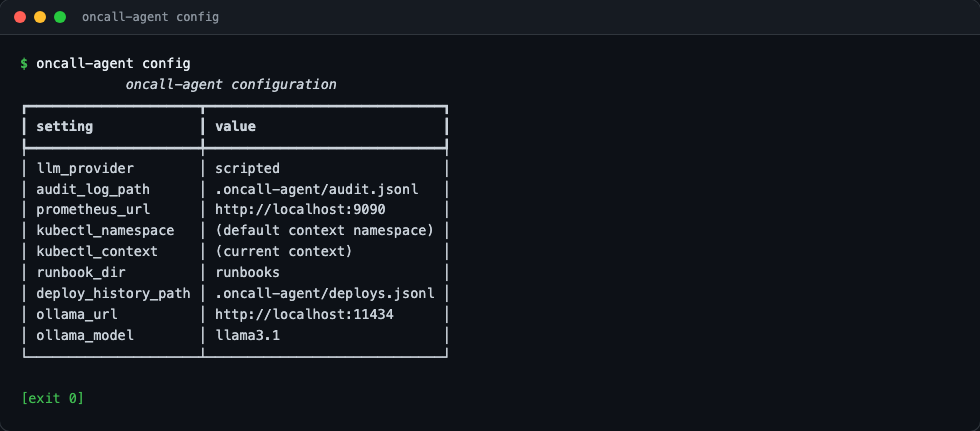
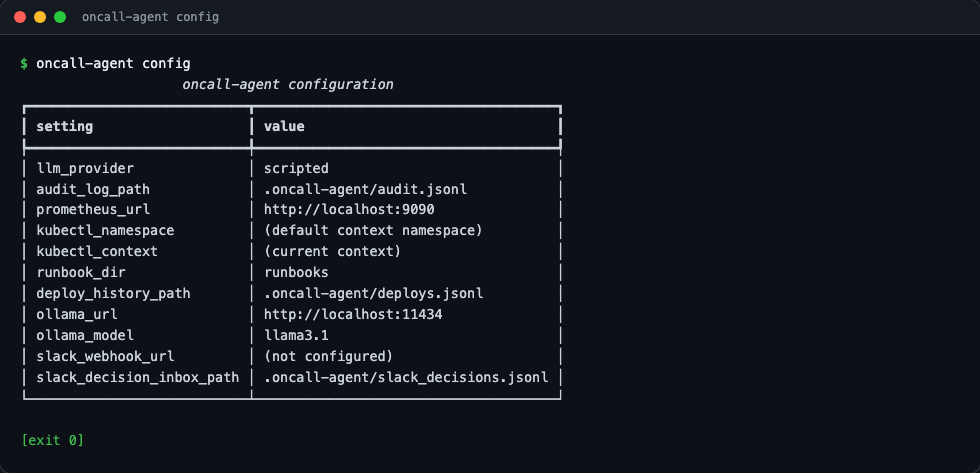
docs: README and screenshots for the Phase 4 approval gate
Documents --approval {skip,cli,auto}, the new approve command, and the
Slack decision-inbox pattern; adds three screenshots showing the CLI
approval prompt approved, rejected, and the approve command recording
a decision, plus refreshed captures for config (new Slack settings)
and the --help listing (six commands now).

Changed region(s): [[0.0, 0.1206, 0.5816, 0.8445], [0.0, 0.0302, 0.2449, 0.0603], [0.0306, 0.9049, 0.0918, 0.9652]]

diff --git a/scripts/capture_screenshots.py b/scripts/capture_screenshots.py
@@ -108,8 +108,8 @@ TEMPLATE = """<!doctype html>
 """
 
 
-def run_capture(args: list[str], label: str, filename: str) -> None:
-    _capture([str(BIN), *args], "oncall-agent " + " ".join(args), label, filename)
+def run_capture(args: list[str], label: str, filename: str, stdin_text: str | None = None) -> None:
+    _capture([str(BIN), *args], "oncall-agent " + " ".join(args), label, filename, stdin_text)
 
 
 def run_shell_capture(argv: list[str], command_display: str, label: str, filename: str) -> None:
@@ -118,13 +118,16 @@ def run_shell_capture(argv: list[str], command_display: str, label: str, filenam
     _capture(argv, command_display, label, filename)
 
 
-def _capture(argv: list[str], command_display: str, label: str, filename: str) -> None:
+def _capture(
+    argv: list[str], command_display: str, label: str, filename: str, stdin_text: str | None = None
+) -> None:
     result = subprocess.run(
         argv,
         cwd=REPO_ROOT,
         env=ENV,
         capture_output=True,
         text=True,
+        input=stdin_text,
     )
     combined = result.stdout + result.stderr
     body_html = CONVERTER.convert(combined, full=False)
@@ -213,6 +216,28 @@ def main() -> None:
         "09-report-markdown-output",
     )
     (REPO_ROOT / report_path).unlink(missing_ok=True)
+
+    run_capture(
+        ["demo", "--scenario", "deploy-regression", "--audit-log", audit_log, "--approval", "cli"],
+        "oncall-agent demo --scenario deploy-regression --approval cli  (typed: y)",
+        "10-demo-approval-cli-approved",
+        stdin_text="y\n",
+    )
+    run_capture(
+        ["demo", "--scenario", "deploy-regression", "--audit-log", audit_log, "--approval", "cli"],
+        "oncall-agent demo --scenario deploy-regression --approval cli  (typed: n)",
+        "11-demo-approval-cli-rejected",
+        stdin_text="n\n",
+    )
+
+    inbox_path = "docs-demo-decisions.jsonl"
+    (REPO_ROOT / inbox_path).unlink(missing_ok=True)
+    run_capture(
+        ["approve", "alert-abc123", "--approver", "alice", "--inbox", inbox_path],
+        "oncall-agent approve alert-abc123 --approver alice --inbox docs-demo-decisions.jsonl",
+        "12-approve-command",
+    )
+    (REPO_ROOT / inbox_path).unlink(missing_ok=True)
 
     (REPO_ROOT / audit_log).unlink(missing_ok=True)
 

diff --git a/PROGRESS.md b/PROGRESS.md
@@ -59,7 +59,18 @@ fakes (deterministic, needed for reproducible scenarios and
 screenshots); the real clients are reachable directly via
 `oncall-agent tools <name>` and are built to be registered into the
 same `ToolRegistry` the loop reads from once a "live" investigation
-mode (Phase 4+) needs live evidence instead of canned evidence.
+mode needs live evidence instead of canned evidence.
+
+Phase 4 added a layer *above* the loop rather than inside it:
+`response.respond_to_incident()` calls `run_investigation()` completely
+unchanged, then — only if the resulting `Diagnosis.action` is a
+mutating one — asks an `ApprovalGate` (`approval.py`: `CLIApprovalGate`,
+`SlackApprovalGate`, `AutoApprovalGate`) and, once approved, hands the
+action to an `ActionRegistry` (`actions.py`: kubectl-backed executors or
+a dry-run `NoopActionExecutor` registry) via `execute_action()`, which
+refuses anything without an `APPROVED` decision and always logs the
+outcome. `run_investigation()` itself has zero awareness any of this
+exists — same pattern Phase 3 used for re-planning.
 
 ## Phased build plan
 
@@ -113,12 +124,43 @@ mode (Phase 4+) needs live evidence instead of canned evidence.
     `oncall-agent demo --report PATH [--report-format markdown|json]`
   - Full test suite (136 tests, 99% statement coverage)
 
-- [ ] **Phase 4 — Human approval gate**
-  - Every state-changing action (restart, rollback, scale) blocked pending approval
-  - CLI approval prompt
-  - Slack approval integration
-  - Action executors for approved fixes
-  - Approval decisions themselves written to the audit trail
+- [x] **Phase 4 — Human approval gate** (Night 4)
+  - `models.py`: `ActionType` (`restart`/`rollback`/`scale`/`escalate`),
+    `Diagnosis.action`/`action_arguments` (the machine-actionable shape of
+    `proposed_fix`), `ApprovalDecision`, `ActionResult`, `IncidentResponse`,
+    and a new `EventType.ACTION_EXECUTED`
+  - `ScriptedPolicyProvider` now tags every diagnosis with the `ActionType`
+    its `proposed_fix` implies: deploy regression -> `ROLLBACK` (to the
+    previous version), OOM -> `SCALE` (replica bump), anything that
+    escalates to a human (dependency failure, or no signal at all) ->
+    `ESCALATE` — the one action type that never needs approval, since it
+    never mutates anything
+  - `approval.py`: `ApprovalGate` contract plus three implementations —
+    `CLIApprovalGate` (blocking y/n terminal prompt), `AutoApprovalGate`
+    (approves immediately, for scripted/CI runs), and `SlackApprovalGate`
+    (posts to a Slack webhook, or prints if none is configured, then polls
+    a `SlackDecisionInbox` — a JSON-lines file standing in for what a real
+    Slack Events API handler would append to on a button click)
+  - `actions.py`: `ActionExecutor` contract, `KubectlMutationClient` (a
+    second, narrower kubectl chokepoint restricted to `rollout`/`scale` —
+    deliberately a separate class from the read-only `tools/kubectl.py`
+    client so that client's "nothing here can mutate a cluster" guarantee
+    stays true for every existing caller), `RestartActionExecutor`/
+    `RollbackActionExecutor`/`ScaleActionExecutor`, a dry-run
+    `NoopActionExecutor` (what `demo` uses, since its evidence is fake),
+    `ActionRegistry`, and `execute_action()` — the single chokepoint that
+    refuses to run anything without an `APPROVED` decision and always logs
+    the outcome (success or failure) to the audit trail
+  - `response.py`: `respond_to_incident()` — investigate, then gate any
+    actionable fix on approval, then execute if approved. A pure wrapper
+    around the unchanged `run_investigation()`, same layering Phase 3 used
+  - CLI: `oncall-agent demo --approval {skip,cli,auto}` (default `skip`,
+    so every pre-Phase-4 `demo` invocation is byte-for-byte unchanged) and
+    a new `oncall-agent approve <incident-id> --approver NAME [--reject]
+    [--reason TEXT]` command — the manual stand-in for the Slack button
+    click, writing to the same decision inbox `SlackApprovalGate` polls
+  - New `Settings` fields `slack_webhook_url`/`slack_decision_inbox_path`
+  - Full test suite (185 tests, 99% statement coverage)
 
 - [ ] **Phase 5 — Incident simulator**
   - chaos-kit-based fault injection
@@ -132,35 +174,50 @@ mode (Phase 4+) needs live evidence instead of canned evidence.
 
 ## Where to resume
 
-**Next session: start Phase 4 — human approval gate.** Diagnoses
-already carry `requires_approval: bool` (always `True` today) but
-nothing currently blocks on it — the loop returns the `Diagnosis` and
-stops. Phase 4 should add an approval step after `DIAGNOSE` for any
-proposed fix that's actually state-changing: a CLI prompt first (ask
-y/n, log the decision), a Slack integration second, and then
-"action executors" that are only allowed to run once a human has said
-yes, with the approval decision itself written to the audit trail
-(`EventType.APPROVAL_REQUESTED`/`APPROVAL_DECIDED` already exist in
-`models.py`, unused since Phase 1 — this is what they're for).
+**Next session: start Phase 5 — incident simulator.** This needs a
+fault-injection mechanism (chaos-kit or a hand-rolled equivalent — worth
+checking what chaos-kit actually gives you before committing to the
+dependency, since the whole rest of this project has stayed
+dependency-light on purpose) and 5-6 scenario definitions (bad deploy,
+OOM, dependency outage, network partition, disk pressure, config drift
+— the `runbooks/` corpus already has one markdown runbook per scenario
+from Phase 2, which is a reasonable source of truth for what each
+scenario should actually inject). The scenario runner fires an `Alert`
+against the injected fault and lets `respond_to_incident()` (Phase 4)
+investigate and act on it end to end, auto-approving
+(`AutoApprovalGate`) so the simulator can run unattended.
+
+The real Phase 2 tools (`tools/prometheus.py`, `tools/kubectl.py`,
+`tools/runbooks.py`, `tools/deploys.py`) are still only reachable
+standalone via `oncall-agent tools <name>` — not yet wired into
+`run_investigation`/the `demo` command, since `demo` needs
+deterministic, canned evidence for reproducible scenarios and
+screenshots. The simulator is exactly the place this finally matters:
+each scenario should inject a fault into *real* state (a local
+Prometheus, a kind/minikube cluster, or fakes dressed up to look like
+them) and register the real tools into a `ToolRegistry`, not the fakes
+`demo` uses. Phase 4's `ActionRegistry.kubectl(...)` (real, kubectl-
+backed executors) is already built for this and currently unused
+outside its own tests — the simulator is its first real caller.
 
 The scripted policy's re-planning (Phase 3) only revises once, and only
 when pod health shows *zero* signal at all (no restarts, no OOM) — a
 deliberately narrow trigger chosen so every Phase 1/2 test fixture
 (which builds `Hypothesis` objects without a `category`) stays
-untouched. If Phase 4 or later adds more tool types, the same pattern
-— tag hypotheses with `category`, check `current_hypothesis(...)` before
-acting on one — is the way to add more contradiction checks without
-risking the existing ones.
+untouched. The same pattern — tag hypotheses with `category`, check
+`current_hypothesis(...)` before acting on one — is the way to add more
+contradiction checks as the simulator's scenarios exercise paths the
+scripted policy doesn't handle well yet (e.g. network partition and
+config drift have no dedicated category today; they'll fall through to
+the generic "no deploy, no OOM -> escalate" branch, which may or may not
+be the right call once there's a scenario actually testing it).
 
-The real Phase 2 tools (`tools/prometheus.py`, `tools/kubectl.py`,
-`tools/runbooks.py`, `tools/deploys.py`) are currently only reachable
-standalone via `oncall-agent tools <name>` — they are not yet wired
-into `run_investigation`/the `demo` command, since `demo` still needs
-deterministic, canned evidence for reproducible scenarios and
-screenshots. Wiring a "live" investigation mode that registers the
-real tools into a `ToolRegistry` instead of the fakes is reasonable
-scope for Phase 4+, once an approval gate exists to stop that live mode
-from ever acting on a cluster unsupervised.
+`SlackApprovalGate` (Phase 4) is tested only against a mocked
+`requests.post` and a `SlackDecisionInbox` file — there is no real
+Slack Events API endpoint behind `oncall-agent approve`, by design (that
+would need a hosted webhook receiver, out of scope for a local-only
+project). If a real Slack app ever gets wired up, it should append to
+the same `SlackDecisionInbox` shape `approve` already writes.
 
 `OllamaProvider` (Phase 3) is untested against a real Ollama server —
 only against a mocked HTTP boundary, same pattern as the Prometheus/
@@ -173,6 +230,7 @@ compares to the scripted policy's canned decision tree — the prompt in
 No integration tests against a live Prometheus/cluster exist yet
 (the `integration` pytest marker is registered in `pyproject.toml` but
 unused) — add them if/when a live cluster or Prometheus becomes
-available to test against; they should stay skipped by default.
+available to test against; they should stay skipped by default. Phase 5
+is the first phase where that marker is likely to actually get used.
 
 STATUS: IN_PROGRESS

diff --git a/README.md b/README.md
@@ -13,21 +13,23 @@ This project is being built in public, one night at a time. See
 [`PROGRESS.md`](PROGRESS.md) for the full architecture, the phased build
 plan, and exactly where work left off.
 
-**Current phase:** Phases 1–3 are complete — domain models, an
+**Current phase:** Phases 1–4 are complete — domain models, an
 append-only audit trail, a pluggable LLM provider interface with a
 deterministic scripted policy, the investigate → hypothesize →
 diagnose loop, real Prometheus/kubectl/runbook/deploy-history clients
 alongside the original fakes, multi-hypothesis ranking with
 contradiction-triggered re-planning, an optional local-model provider
-(Ollama), structured diagnosis report export (Markdown/JSON), and a
-CLI, all backed by a full test suite.
+(Ollama), structured diagnosis report export (Markdown/JSON), a human
+approval gate (CLI prompt and Slack) in front of every state-changing
+action, action executors that only run once a human has said yes, and
+a CLI, all backed by a full test suite.
 
 ## Preview
 
 All screenshots below are real terminal output from the commands shown
 — nothing hand-typed or edited.
 
-**`oncall-agent --help`** — the five top-level commands:
+**`oncall-agent --help`** — the six top-level commands:
 
 ![CLI help](docs/screenshots/01-cli-help.png)
 
@@ -63,6 +65,18 @@ All screenshots below are real terminal output from the commands shown
 
 ![Exported Markdown diagnosis report](docs/screenshots/09-report-markdown-output.png)
 
+**`oncall-agent demo --scenario deploy-regression --approval cli`** — approving the proposed rollback at the terminal prompt runs it (as a dry run, since `demo` only ever has fake evidence to act on):
+
+![CLI approval gate, approved](docs/screenshots/10-demo-approval-cli-approved.png)
+
+**`oncall-agent demo --scenario deploy-regression --approval cli`** — saying no at the same prompt stops before anything executes:
+
+![CLI approval gate, rejected](docs/screenshots/11-demo-approval-cli-rejected.png)
+
+**`oncall-agent approve`** — the manual stand-in for clicking "Approve" on a Slack message; a real Slack app would append to this same decision inbox from its Events API callback, and a `SlackApprovalGate` polling that incident picks it up from there:
+
+![Recording a Slack-style approval decision](docs/screenshots/12-approve-command.png)
+
 ## Why this exists
 
 Real incident response is a loop: look at evidence, form a theory, look
@@ -91,12 +105,16 @@ answer but how the agent got there and what else it considered.
 
 ```
 src/oncall_agent/
-├── models.py          Alert, Hypothesis, Diagnosis, ToolCallRecord, AuditEvent
+├── models.py          Alert, Hypothesis, Diagnosis, ToolCallRecord, AuditEvent,
+│                       ActionType, ApprovalDecision, ActionResult, IncidentResponse
 ├── audit.py            AuditTrail — append-only JSON-lines audit log
 ├── config.py            Settings — env-driven configuration (ONCALL_AGENT_*)
 ├── investigation.py    the investigate -> hypothesize -> diagnose loop
 ├── reasoning.py         rank_hypotheses / current_hypothesis — multi-hypothesis comparison
 ├── report.py             export_report — Markdown/JSON diagnosis report export
+├── approval.py           ApprovalGate — CLIApprovalGate, SlackApprovalGate, AutoApprovalGate
+├── actions.py            ActionExecutor — kubectl-backed and dry-run (Noop) executors
+├── response.py           respond_to_incident — investigation + approval gate + action execution
 ├── llm/
 │   ├── base.py          LLMProvider / LLMRequest / LLMResponse contract
 │   ├── scripted.py      ScriptedPolicyProvider — deterministic default, re-plans on contradiction
@@ -109,7 +127,7 @@ src/oncall_agent/
 │   ├── kubectl.py        KubectlClient — get/describe/logs only, never a write
 │   ├── deploys.py        DeployHistoryStore/Tool — append-only deploy ledger
 │   └── runbooks.py       RunbookSearchTool — keyword search over runbooks/*.md
-└── cli.py               click CLI: version, config, demo, audit, tools
+└── cli.py               click CLI: version, config, demo, audit, approve, tools
 ```
 
 `tools/` ships two implementations of the same `Tool` interface: the
@@ -126,9 +144,19 @@ next decision as JSON) both satisfy the exact same `LLMProvider`
 contract, so `get_provider(name)` is the only place that knows which
 one it handed back.
 
-Full phase-by-phase plan (richer reasoning, the Slack approval gate,
-the chaos-kit simulator, the scorecard) is in
-[`PROGRESS.md`](PROGRESS.md).
+`response.py` ships the same pattern one layer above the investigation
+loop: `respond_to_incident` runs `run_investigation` unchanged, and only
+if the resulting `Diagnosis.action` is a mutating one (not `None` and
+not `ESCALATE`) does it ask an `ApprovalGate` — `CLIApprovalGate`
+(prompts the terminal), `SlackApprovalGate` (posts to Slack and polls a
+decision inbox), or `AutoApprovalGate` (approves immediately, for
+scripted/CI runs) — before handing the action to an `ActionRegistry`.
+Nothing in `run_investigation` itself knows an approval gate exists;
+`respond_to_incident` is a pure wrapper, same as every other
+provider/tool swap in this codebase.
+
+Full phase-by-phase plan (the chaos-kit incident simulator, the
+scorecard) is in [`PROGRESS.md`](PROGRESS.md).
 
 ## Installation
 
@@ -159,8 +187,16 @@ oncall-agent demo --scenario unknown
 oncall-agent demo --scenario unknown --report incident-report.md
 oncall-agent demo --scenario unknown --report incident-report.json --report-format json
 
+# run a full investigation and gate the proposed action on human approval
+oncall-agent demo --scenario deploy-regression --approval cli    # prompts y/n at the terminal
+oncall-agent demo --scenario oom --approval auto                 # auto-approves, no human (CI/scripted runs)
+
 # inspect the audit trail an investigation left behind
 oncall-agent audit
+
+# record a Slack-style approval decision (the human side of SlackApprovalGate's inbox)
+oncall-agent approve alert-abc123 --approver alice
+oncall-agent approve alert-abc123 --approver alice --reject --reason "too risky, escalate instead"
 
 # call a real read-only tool directly, outside an investigation
 oncall-agent tools query-prometheus 'up{job="checkout-service"}' --url http://localhost:9090
@@ -205,17 +241,38 @@ the CLI needs to change. It needs network access to the Ollama server,
 which is exactly why it isn't the default: tests and CI stay on the
 scripted policy.
 
+By default `demo` stops at the diagnosis, same as Phases 1–3 (pass
+`--approval skip`, or nothing — it's the default). `--approval cli`
+runs the full `respond_to_incident` flow and blocks on a y/n prompt for
+any proposed action that isn't a plain escalation; `--approval auto`
+runs the same flow but approves immediately, which is what scripted
+demos and screenshots use so nothing hangs waiting on a human. Either
+way the action itself runs through `ActionRegistry.noop()` — a dry-run
+executor — since `demo`'s evidence is all fake and there is no real
+deployment to act on. The real, kubectl-backed executors
+(`ActionRegistry.kubectl(...)`) are reachable programmatically the same
+way the Phase 2 clients are: built to be registered once a live
+investigation mode exists, not yet exposed as a CLI shortcut that would
+let an action run outside the approval gate.
+
+A `SlackApprovalGate` posts the same approval request to a Slack
+webhook (or prints it, if `ONCALL_AGENT_SLACK_WEBHOOK_URL` isn't set)
+and then polls a `SlackDecisionInbox` — a JSON-lines file — for the
+decision. `oncall-agent approve` is the manual stand-in for the Slack
+button click a real deployment would wire up via the Events API: it
+appends the same decision shape to the same inbox.
+
 ## Testing
 
 ```bash
 pytest -q --cov=oncall_agent
 ```
 
-136 tests, 99% statement coverage, no network access or API key
+185 tests, 99% statement coverage, no network access or API key
 required — this is also what CI runs. The real Prometheus/kubectl
-clients and the optional Ollama provider are all tested by mocking the
-HTTP/subprocess boundary, so the suite never needs a live cluster,
-metrics backend, or local model.
+clients, the optional Ollama provider, and the Slack approval gate are
+all tested by mocking the HTTP/subprocess boundary, so the suite never
+needs a live cluster, metrics backend, local model, or Slack workspace.
 
 ## License
 
